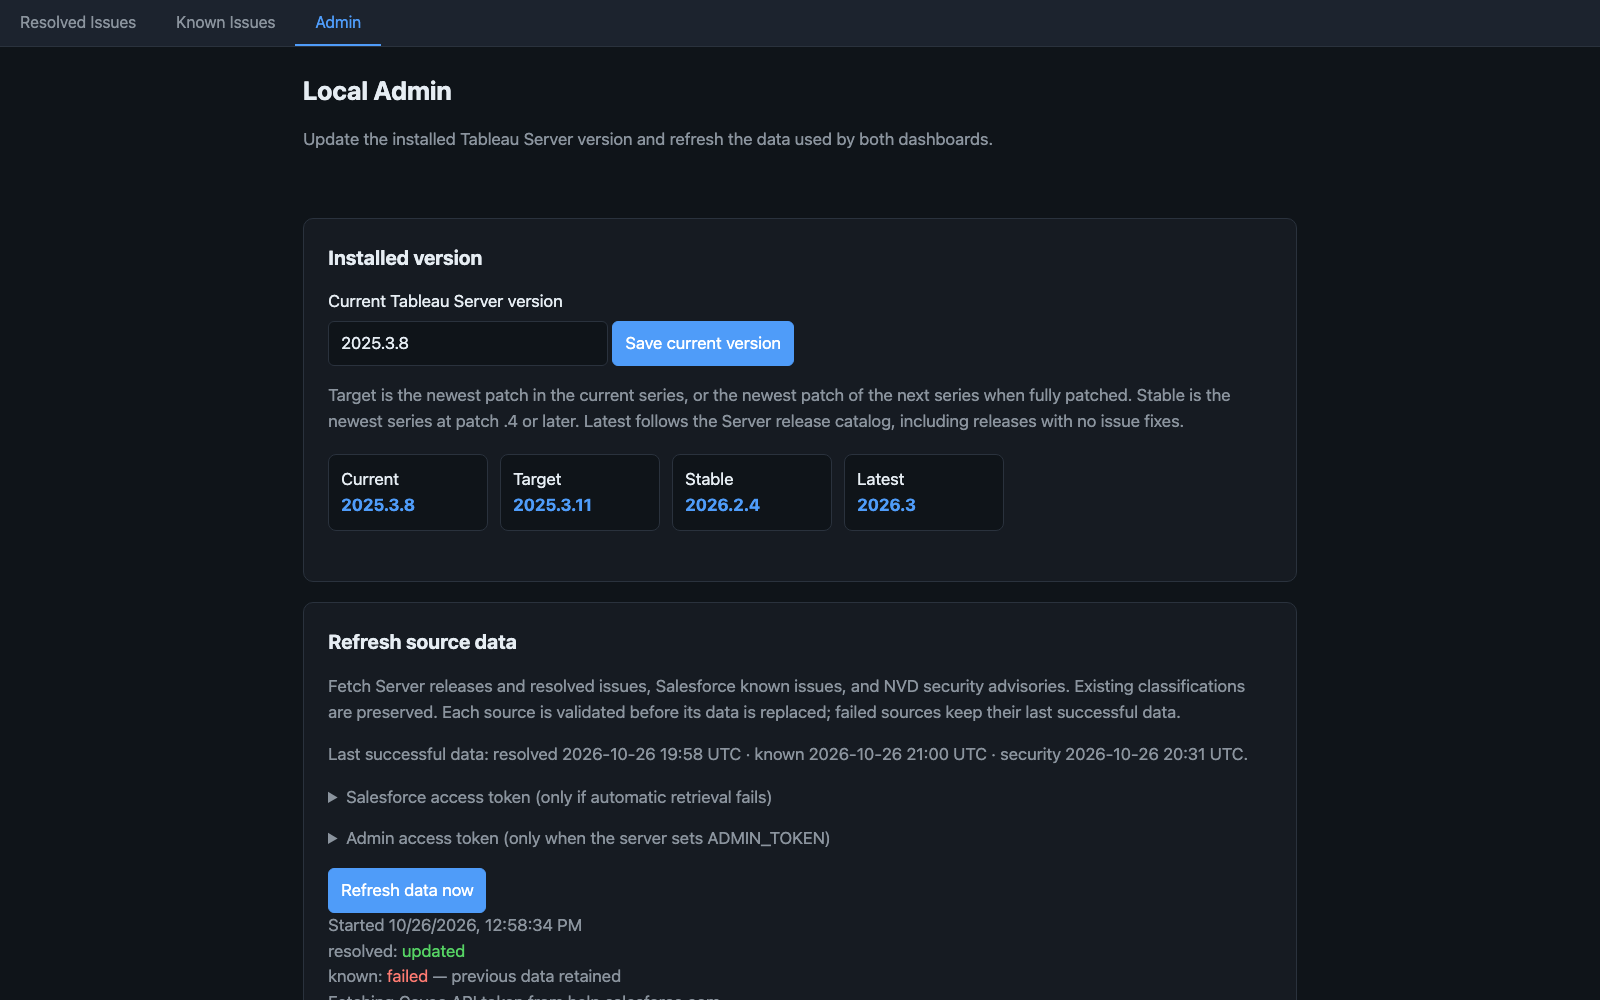
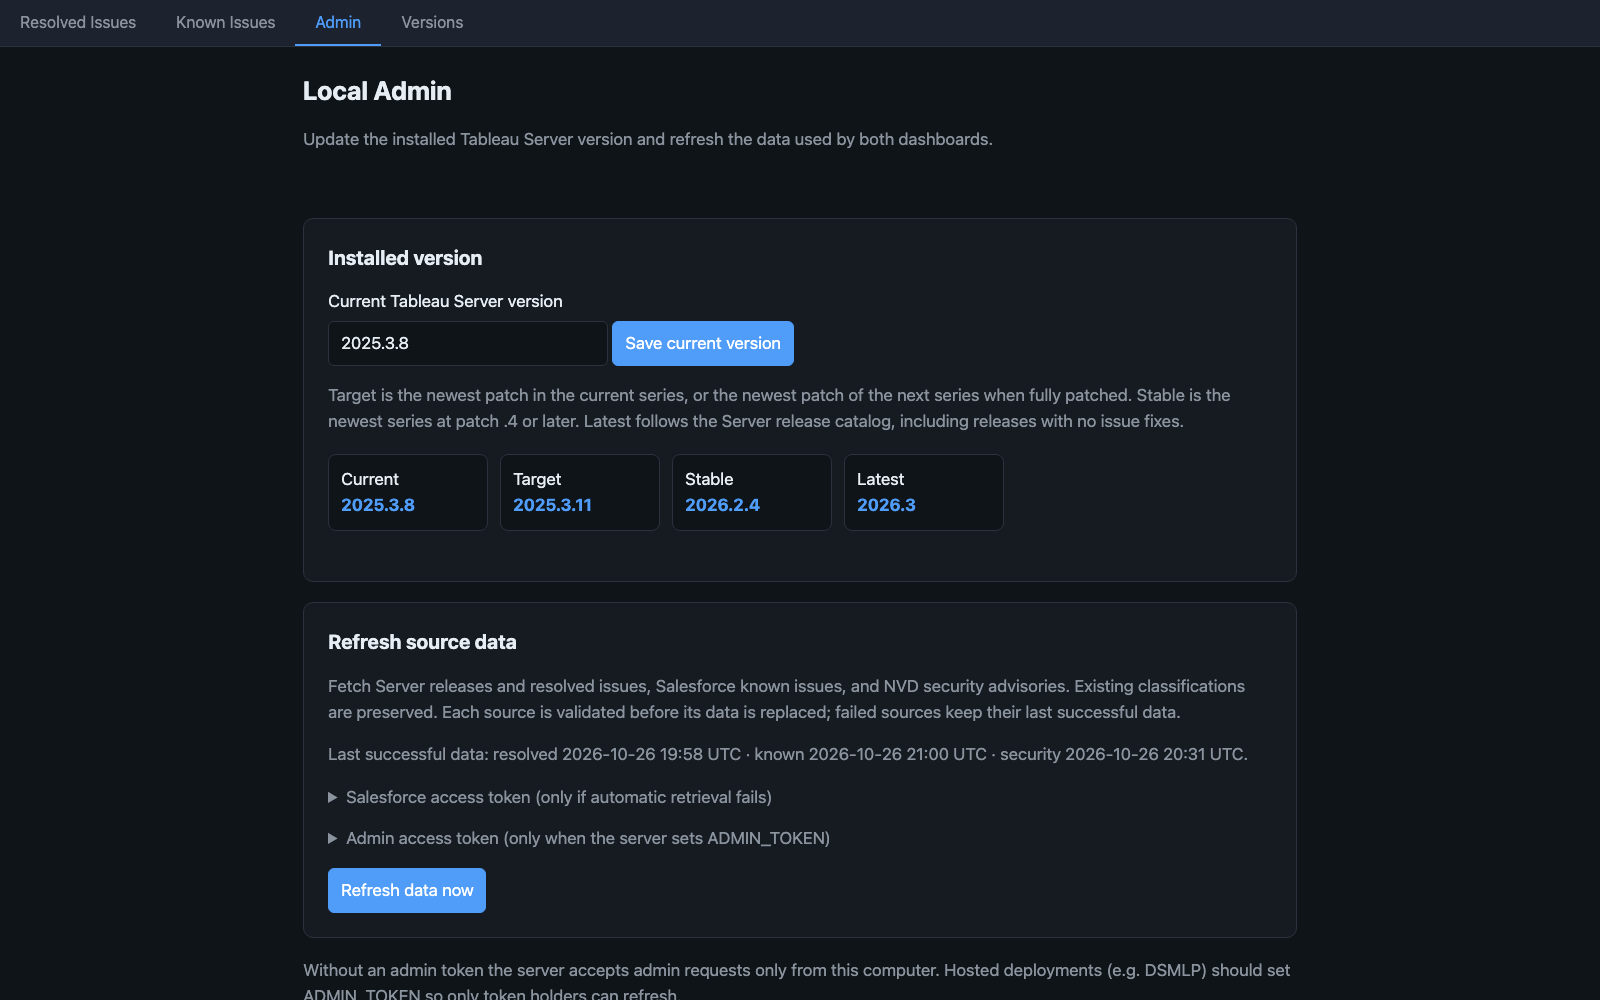
Release site-v0.2.1: versions page footer links, refreshed admin screenshot

Changed region(s): [[0.1875, 0.899, 0.8125, 1.0], [0.25, 0.0, 0.2812, 0.031]]

diff --git a/versions.html b/versions.html
@@ -27,6 +27,10 @@
   .release li{margin-top:8px}
   .release li:first-child{margin-top:0}
   footer{max-width:900px;margin:auto;padding:10px 28px 50px;color:var(--muted);font-size:14px;width:100%}
+  .page-links{display:flex;align-items:center;gap:18px;margin-top:8px}
+  .page-links a{color:var(--muted);text-decoration:none}
+  .page-links a:hover{color:var(--accent)}
+  .page-links svg{width:16px;height:16px;display:block}
   @media (max-width: 900px){
     .navbar{position: static}
     header,main,footer{padding-left: 16px;padding-right: 16px}
@@ -49,10 +53,17 @@
 </nav>
 <header>
   <h1>Release History</h1>
-  <p class="sub">What changed in the Tableau Radar app, newest first. Update <code>data/versions.js</code> to add a release.</p>
 </header>
 <main id="releaseList" aria-label="App release history"></main>
-<footer>Dashboards: <a href="index.html">Resolved Issues</a> · <a href="known-issues.html">Known Issues</a> · <a href="admin.html">Admin</a></footer>
+<footer>
+  <div>Dashboards: <a href="index.html">Resolved Issues</a> · <a href="known-issues.html">Known Issues</a> · <a href="admin.html">Admin</a></div>
+  <div class="page-links">
+    <a href="https://github.com/rcmadden/ts-radar/issues" target="_blank" rel="noopener" aria-label="Report an issue on GitHub (opens in a new tab)" title="Report an issue on GitHub">
+      <svg xmlns="http://www.w3.org/2000/svg" viewBox="0 0 24 24" fill="none" stroke="currentColor" stroke-width="2" stroke-linecap="round" stroke-linejoin="round" aria-hidden="true"><path d="M15 22v-4a4.8 4.8 0 0 0-1-3.5c3 0 6-2 6-5.5.08-1.25-.27-2.48-1-3.5.28-1.15.28-2.35 0-3.5 0 0-1 0-3 1.5-2.64-.5-5.36-.5-8 0C6 2 5 2 5 2c-.3 1.15-.3 2.35 0 3.5A5.403 5.403 0 0 0 4 9c0 3.5 3 5.5 6 5.5-.39.49-.68 1.05-.85 1.65-.17.6-.22 1.23-.15 1.85v4"/><path d="M9 18c-4.51 2-5-2-7-2"/></svg>
+    </a>
+    <a href="https://github.com/rcmadden/ts-radar#readme" target="_blank" rel="noopener">About this site</a>
+  </div>
+</footer>
 <script src="data/versions.js"></script>
 <script>
 (function(){

diff --git a/tests/ui.test.js b/tests/ui.test.js
@@ -57,8 +57,8 @@ async function load(page,current='2025.3.8',fixture=false){
   const admin=await load('admin.html');assert.equal(admin.window.document.querySelector('#currentVersion').value,'2025.3.8');
   assert.equal(admin.window.document.querySelector('#saveVersion').disabled,false);admin.window.close();
   const versions=await load('versions.html');const versionsDoc=versions.window.document;
-  assert.equal(versionsDoc.querySelectorAll('.release').length,2);
-  assert(versionsDoc.querySelector('.release.current h2').textContent.startsWith('site-v0.2.0'));
+  assert.equal(versionsDoc.querySelectorAll('.release').length,3);
+  assert(versionsDoc.querySelector('.release.current h2').textContent.startsWith('site-v0.2.1'));
   assert(versionsDoc.querySelector('.release.previous .badge').textContent.includes('Previous release'));
   versions.window.close();
   console.log('Dashboard DOM checks passed: card counts, search, version upgrades, security boundary, admin');

diff --git a/data/versions.js b/data/versions.js
@@ -3,9 +3,18 @@
 // and keep the previous entry's status as "previous".
 const APP_VERSIONS = [
   {
-    version: "site-v0.2.0",
+    version: "site-v0.2.1",
     released: "2026-10-26",
     status: "current",
+    highlights: [
+      "Versions page footer now links to GitHub issues for reporting a site problem and to the README describing the site.",
+      "Removed the developer-facing release instructions from the versions page."
+    ]
+  },
+  {
+    version: "site-v0.2.0",
+    released: "2026-10-26",
+    status: "previous",
     highlights: [
       "Version milestones (current, target, stable, latest) now derive from a Server release catalog instead of hardcoded versions, and both dashboards follow the installed version set in Admin.",
       "New Local Admin page sets the installed version and refreshes release, known-issue, and security data; each source is validated and a failed source keeps its previous data.",

diff --git a/before-after.html b/before-after.html
@@ -199,7 +199,7 @@
 </main>
 
 <footer>
-  Before state: <code>site-v0.1.0</code>. After state: <code>site-v0.2.0</code>. This page is part of the after snapshot.
+  Before state: <code>site-v0.1.0</code>. After state: <code>site-v0.2.0</code>, with <code>site-v0.2.1</code> usability follow-ups. This page is part of the after snapshot.
 </footer>
 </body>
 </html>
